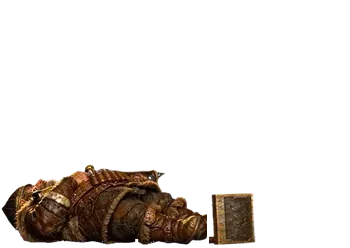
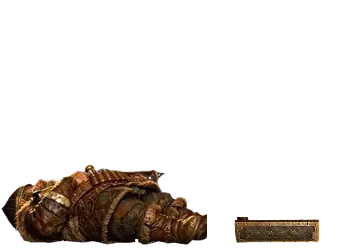
Mountain Crossbowman death: the shield now tips over round its bottom corner and lies flat (was only squashed in place; 0 CU)

Changed region(s): [[0.6, 0.7621, 0.9143, 0.9879]]

diff --git a/src/i18n/en/changelog.ts b/src/i18n/en/changelog.ts
@@ -4,6 +4,7 @@ import { register } from '../translate';
 
 // In preparation
 register({
+  "Kusznik Gór: przy śmierci jego tarcza przechyla się i pada płasko na ziemię obok niego.": "Mountain Crossbowman: when he dies, his shield tips over and falls flat on the ground beside him.",
   "Gwardia Młota: z ataku zniknął biały błysk na młocie i pył po uderzeniu.": "Hammer Guard: the white glare on the hammer and the dust after the blow are gone from the attack.",
   "Żelazny Klan: trafienia Tana, Matki Run, Kreta z Brązu, Niedźwiedzia w Zbroi, Wartownika, Pogromcy Olbrzymów, Gwardii Młota i Kowala Bitewnego to teraz płynne odchylenie od ciosu z przodu i powrót do postawy (bez drgającej, migoczącej sylwetki); wolniejsza śmierć Tarczownika i trafienie Skarbnika, szybsza śmierć Kowala.": "Iron Clan: the hits of Ironbeard the Thane, the Rune Matron, the Bronze Mole, the Armoured Bear, the Bronze Sentinel, the Giant Slayer, the Hammer Guard and the Battle Smith are now a smooth lean back from a blow in front and a return to the stance (no shaking, flickering figure); slower Dwarven Shieldbearer death and Skarbnik hit, faster Battle Smith death.",
   "Kryształowe Drzewo stoi na mapie tylko w celu „Kryształy do Drzewa”. W Punktach kontrolnych, Bossie, Artefakcie, Przetrwaniu, Podboju i Relikcie jego pole jest zwykłym terenem, a w Kontroli, Bossie i Artefakcie punkt środkowy, legowisko Bossa i Artefakt stoją dokładnie w środku mapy (wcześniej obok Drzewa, więc na mapie były dwa „środki”).": "The Crystal Tree stands on the map only in the goal “Crystals to the Tree”. In Control Points, Boss, Artifact, Survival, Conquest and Relic its hex is ordinary ground, and in Control, Boss and Artifact the middle point, the Boss's lair and the Artifact stand exactly in the middle of the map (before, next to the Tree, so the map had two “middles”).",

diff --git a/scripts/assets/clans_shield_fall.py b/scripts/assets/clans_shield_fall.py
@@ -1,13 +1,12 @@
 """Mountain Crossbowman death (backlog 86): the video model refused every death prompt for this unit, so the standing shield is made to fall
-in post. In the frames after T0 the old upright shield (cut from the last frame) is erased and drawn again tipping over towards the camera
-(its screen height shrinks as it lies down), with a small bounce, ending flat. Works on the packed sheet, needs Pillow. Idempotent source: .tmp/zrodla/klany86_a/backup/kusznik_gor."""
+in post. In the frames after T0 the old upright shield (cut from the last frame) is erased and drawn again tipping over to the right
+round its bottom corner (shorter as it turns a little away from the camera), with a small bounce, ending flat. Works on the packed sheet, needs Pillow. Idempotent source: .tmp/zrodla/klany86_a/backup/kusznik_gor."""
 import json, math, os, sys
 from PIL import Image, ImageDraw
 
 SRC = '.tmp/zrodla/klany86_a/backup/kusznik_gor'; DST = 'public/assets/jednostki/kusznik_gor'
 X0, X1, Y0, Y1 = 207, 258, 66, 248          # box of the upright shield in the last frame (dwarf lies left of X0)
 T0, T1 = 15, 31                              # frame range of the fall
-FLAT = 0.30                                  # screen height of the lying shield as a fraction of its standing height
 meta = json.load(open(SRC + '/anim.json')); fw, fh = meta['frame']; n = meta['clips']['smierc']; cols = meta['cols']
 sheet = Image.open(SRC + '/smierc.webp').convert('RGBA')
 frames = [sheet.crop(((i % cols) * fw, (i // cols) * fh, (i % cols) * fw + fw, (i // cols) * fh + fh)) for i in range(n)]
@@ -20,6 +19,10 @@ def ease(t):                                  # accelerating fall, small bounce 
     u = (t - 0.8) / 0.2
     return 1 - 0.07 * math.sin(math.pi * u)
 
+# The shield tips over to the right round its bottom-right corner and ends lying on the ground. It also turns a little away from
+# the camera on the way, so its long side gets shorter (it must stay inside the frame) and its face thinner.
+PX0, PY = left + sw, bottom                   # pivot: bottom-right corner, sliding left as it falls so the lying shield touches the dwarf
+SHORT_LONG, SHORT_THIN = 0.5, 0.55            # how much of its length and width the lying shield shows
 out = []
 for i, f in enumerate(frames):
     if i < T0:
@@ -29,11 +32,23 @@ for i, f in enumerate(frames):
     for y in range(Y0 - 2, fh):               # erase the old shield (right of the dwarf)
         for x in range(X0, fw):
             px[x, y] = (0, 0, 0, 0)
-    k = min(1.0, (i - T0) / (T1 - T0)); th = ease(k) * math.pi / 2
-    h = max(4, round(sh * ((1 - math.sin(th)) + FLAT * math.sin(th))))
-    img = shield.resize((sw, h), Image.LANCZOS)
-    if k > 0.95: img = img.rotate(2, expand=True, resample=Image.BICUBIC)   # settles slightly crooked
-    f.alpha_composite(img, (left, bottom - img.height + 2))
+    k = min(1.0, (i - T0) / (T1 - T0)); e = ease(k); th = e * math.pi / 2
+    L = 1 - (1 - SHORT_LONG) * math.sin(th); W = 1 - (1 - SHORT_THIN) * math.sin(th)
+    # Forward map of a shield pixel (u from its right edge leftwards, v from its bottom upwards):
+    # scaled (u*W, v*L), rotated clockwise by th round the pivot. Image.transform needs the inverse map.
+    c, s_ = math.cos(th), math.sin(th)
+    PX = PX0 - sw * W * s_ * 0.85
+    # screen = P + R(th) * (-u*W, -v*L) with R clockwise in screen coords (y down): x' = x*c - y*s, y' = x*s + y*c
+    # solve for (u, v) given screen (X, Y): local (lx, ly) = R(-th) * (X-PX, Y-PY)
+    def inv(X, Y):
+        dx, dy = X - PX, Y - PY
+        lx = dx * c + dy * s_; ly = -dx * s_ + dy * c
+        u = -lx / W; v = -ly / L
+        return sw - u, sh - v                   # shield image coords
+    a0 = inv(0, 0); ax = inv(1, 0); ay = inv(0, 1)
+    coeffs = (ax[0] - a0[0], ay[0] - a0[0], a0[0], ax[1] - a0[1], ay[1] - a0[1], a0[1])
+    layer = shield.transform((fw, fh), Image.AFFINE, coeffs, resample=Image.BICUBIC)
+    f.alpha_composite(layer)
     out.append(f)
 nsheet = Image.new('RGBA', sheet.size, (0, 0, 0, 0))
 for i, f in enumerate(out):

diff --git a/CHANGELOG.md b/CHANGELOG.md
@@ -6,6 +6,7 @@ Każdy wpis to jeden commit, a skrót commita stoi w nawiasie na końcu wpisu (c
 
 ## W przygotowaniu
 
+- Kusznik Gór: przy śmierci jego tarcza przechyla się i pada płasko na ziemię obok niego.
 - Gwardia Młota: z ataku zniknął biały błysk na młocie i pył po uderzeniu.
 - Żelazny Klan: trafienia Tana, Matki Run, Kreta z Brązu, Niedźwiedzia w Zbroi, Wartownika, Pogromcy Olbrzymów, Gwardii Młota i Kowala Bitewnego to teraz płynne odchylenie od ciosu z przodu i powrót do postawy (bez drgającej, migoczącej sylwetki); wolniejsza śmierć Tarczownika i trafienie Skarbnika, szybsza śmierć Kowala.
 - Kryształowe Drzewo stoi na mapie tylko w celu „Kryształy do Drzewa”. W Punktach kontrolnych, Bossie, Artefakcie, Przetrwaniu, Podboju i Relikcie jego pole jest zwykłym terenem, a w Kontroli, Bossie i Artefakcie punkt środkowy, legowisko Bossa i Artefakt stoją dokładnie w środku mapy (wcześniej obok Drzewa, więc na mapie były dwa „środki”).
